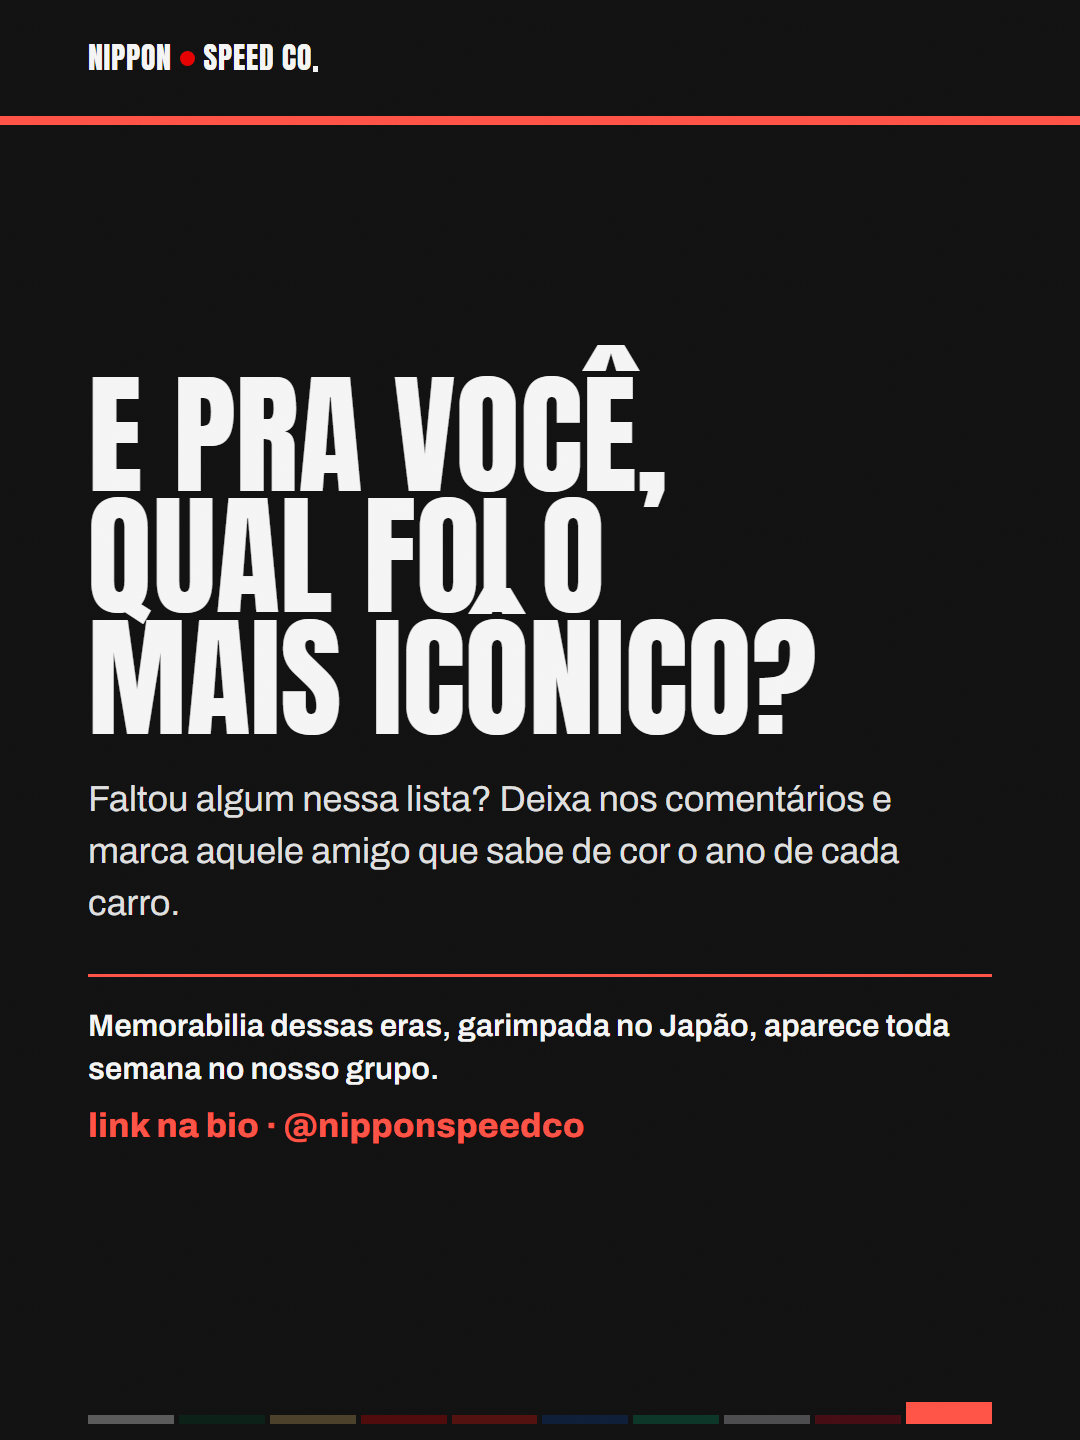
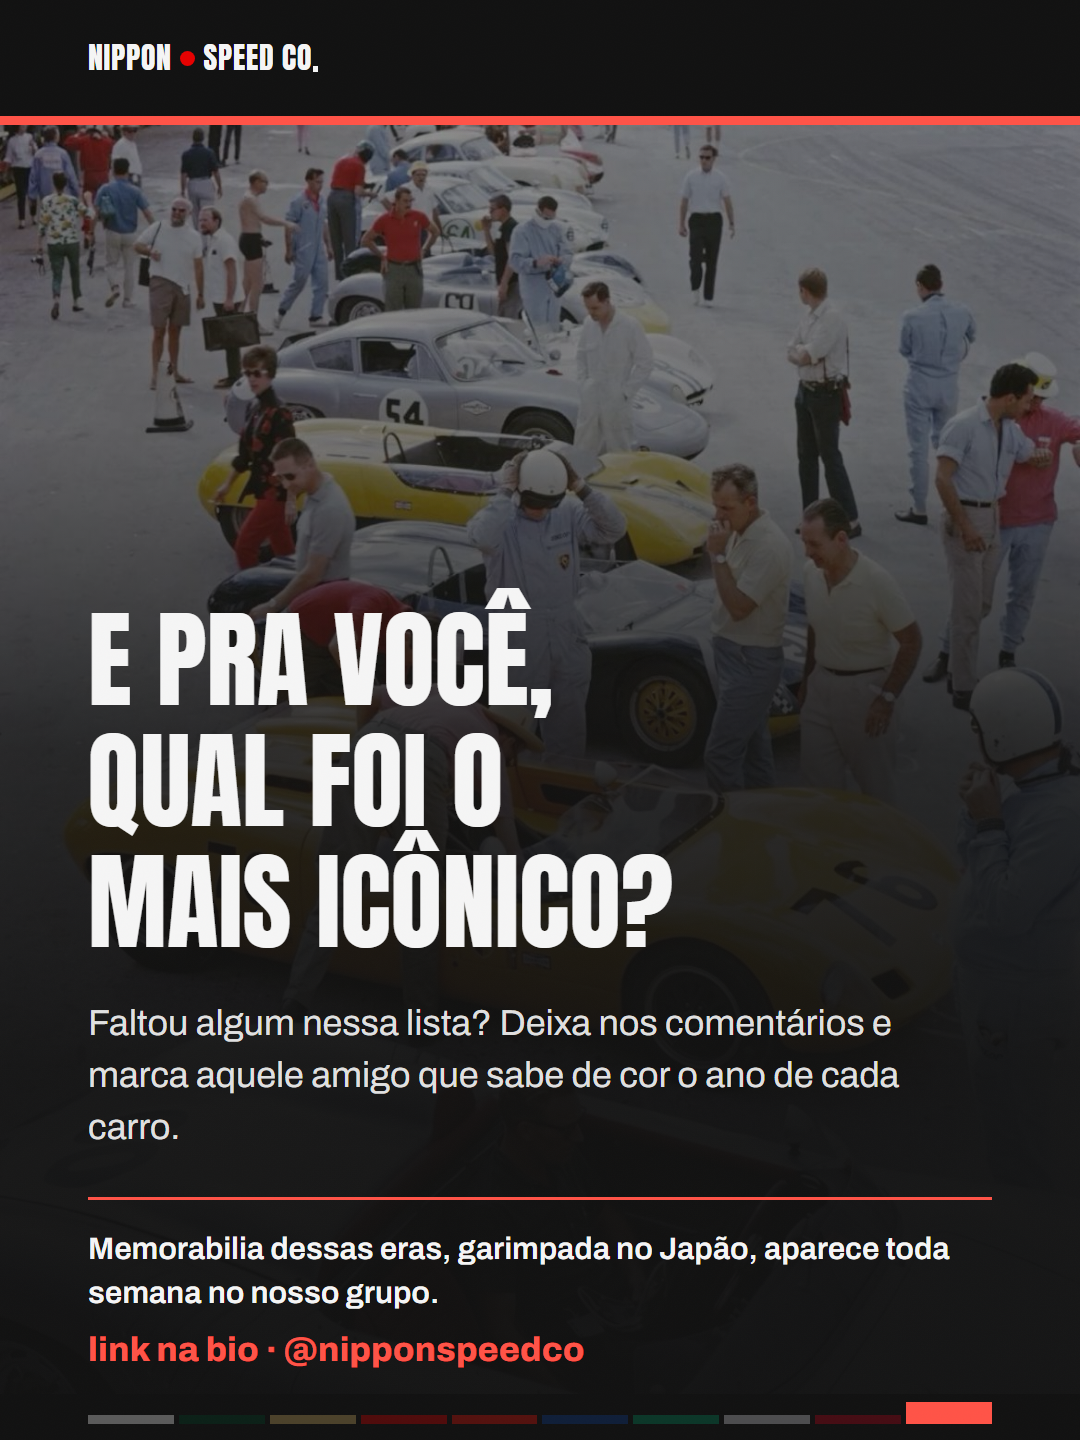
feat(feed): post 05 v2 completa - capa (Ferrari 60s na chuva) e fecho (grid anos 60) full-bleed com scrim; folga de diacritico em VOCE/ICONICO

diff --git a/marca/conteudo/storytelling/05-carros-que-marcaram-epoca/post-v2.html b/marca/conteudo/storytelling/05-carros-que-marcaram-epoca/post-v2.html
@@ -120,6 +120,8 @@ body:not(:has(.slide:target)) #s1{ display:flex; }
   background:var(--ink); color:var(--paper); }
 .end-ttl{ font-family:"Anton",sans-serif; font-weight:400; margin:0; text-transform:uppercase;
   font-size:132px; line-height:.92; }
+/* v2: 106px / 1.14 — a .92 os acentos de VOCE e ICONICO batiam na linha de cima. */
+.end.on-photo .end-ttl{ font-size:106px; line-height:1.14; }
 .end-bd{ margin:34px 0 0; font-size:36px; line-height:1.45; max-width:880px; color:rgba(245,245,245,.92); }
 .end-cta{ margin-top:44px; padding-top:28px; border-top:3px solid var(--accent); }
 .end-cta p{ margin:0; font-size:31px; line-height:1.4; font-weight:600; }
@@ -135,15 +137,32 @@ body:not(:has(.slide:target)) #s1{ display:flex; }
 .yr{ font-size:118px; }
 .spec{ margin:30px 0 0; }
 .spec div{ padding:15px 0; font-size:30px; }
+
+/* ---- v2: CAPA e FECHO com foto full-bleed + scrim ----
+   A capa e o fecho SAO as excecoes ao "aresta dura, sem scrim": aqui o tipo vive
+   por cima da imagem, entao o scrim e funcional (legibilidade), nao decorativo. */
+.bg{ position:absolute; inset:0; width:100%; height:100%; object-fit:cover; z-index:0; }
+.scrim{ position:absolute; inset:0; z-index:1; pointer-events:none; }
+.scrim-capa{ background:linear-gradient(180deg, rgba(17,17,17,.62) 0%, rgba(17,17,17,.30) 40%, rgba(17,17,17,.55) 78%, rgba(17,17,17,.90) 100%); }
+.scrim-fim{ background:linear-gradient(180deg, rgba(17,17,17,.38) 0%, rgba(17,17,17,.52) 30%, rgba(17,17,17,.86) 52%, rgba(17,17,17,.96) 74%, rgba(17,17,17,.98) 100%); }
+.slide > .strip, .slide > .era-rule, .slide > .swatches, .slide > .ribbon{ position:relative; z-index:3; }
+.cover, .end{ position:relative; z-index:2; }
+/* titulo no ALTO da capa: a nevoa da foto e o espaco negativo, o carro fica embaixo */
+.cover.on-photo{ background:transparent; justify-content:flex-start; padding-top:54px; }
+.cover.on-photo .cover-sub{ color:rgba(245,245,245,.95); }
+/* texto do fecho ancorado embaixo, onde o scrim e mais denso */
+.end.on-photo{ background:transparent; justify-content:flex-end; padding-bottom:26px; }
 </style>
 </head>
 <body>
 
 <!-- ══ 1 · CAPA ══ -->
 <section class="slide" id="s1">
+  <img class="bg" src="capa.jpg" style="object-position:center 72%" alt="Ferrari amarela de Formula 1 dos anos 60 sob chuva, piloto de capacete branco e goggles"/>
+  <div class="scrim scrim-capa"></div>
   <header class="strip"><span class="wordmark">Nippon<span class="disc"></span>Speed Co<span class="sq"></span></span></header>
   <div class="era-rule" style="background:var(--accent)"></div>
-  <div class="cover">
+  <div class="cover on-photo">
     <h1 class="cover-ttl">Os carros que<br/>marcaram época</h1>
     <p class="cover-sub">De 1962 aos anos 2000, as máquinas que mudaram a Fórmula 1. Oito delas, uma por vez.</p>
   </div>
@@ -322,9 +341,11 @@ body:not(:has(.slide:target)) #s1{ display:flex; }
 
 <!-- ══ 10 · FECHO · engajamento (feed não vende) ══ -->
 <section class="slide" id="s10">
+  <img class="bg" src="final.jpg" style="object-position:center 42%" alt="Grid de carros de corrida dos anos 60 alinhados no paddock, pilotos e mecanicos em volta"/>
+  <div class="scrim scrim-fim"></div>
   <header class="strip"><span class="wordmark">Nippon<span class="disc"></span>Speed Co<span class="sq"></span></span></header>
   <div class="era-rule" style="background:var(--accent)"></div>
-  <div class="end">
+  <div class="end on-photo">
     <h2 class="end-ttl">E pra você,<br/>qual foi o<br/>mais icônico?</h2>
     <p class="end-bd">Faltou algum nessa lista? Deixa nos comentários e marca aquele amigo que sabe de cor o ano de cada carro.</p>
     <div class="end-cta">
